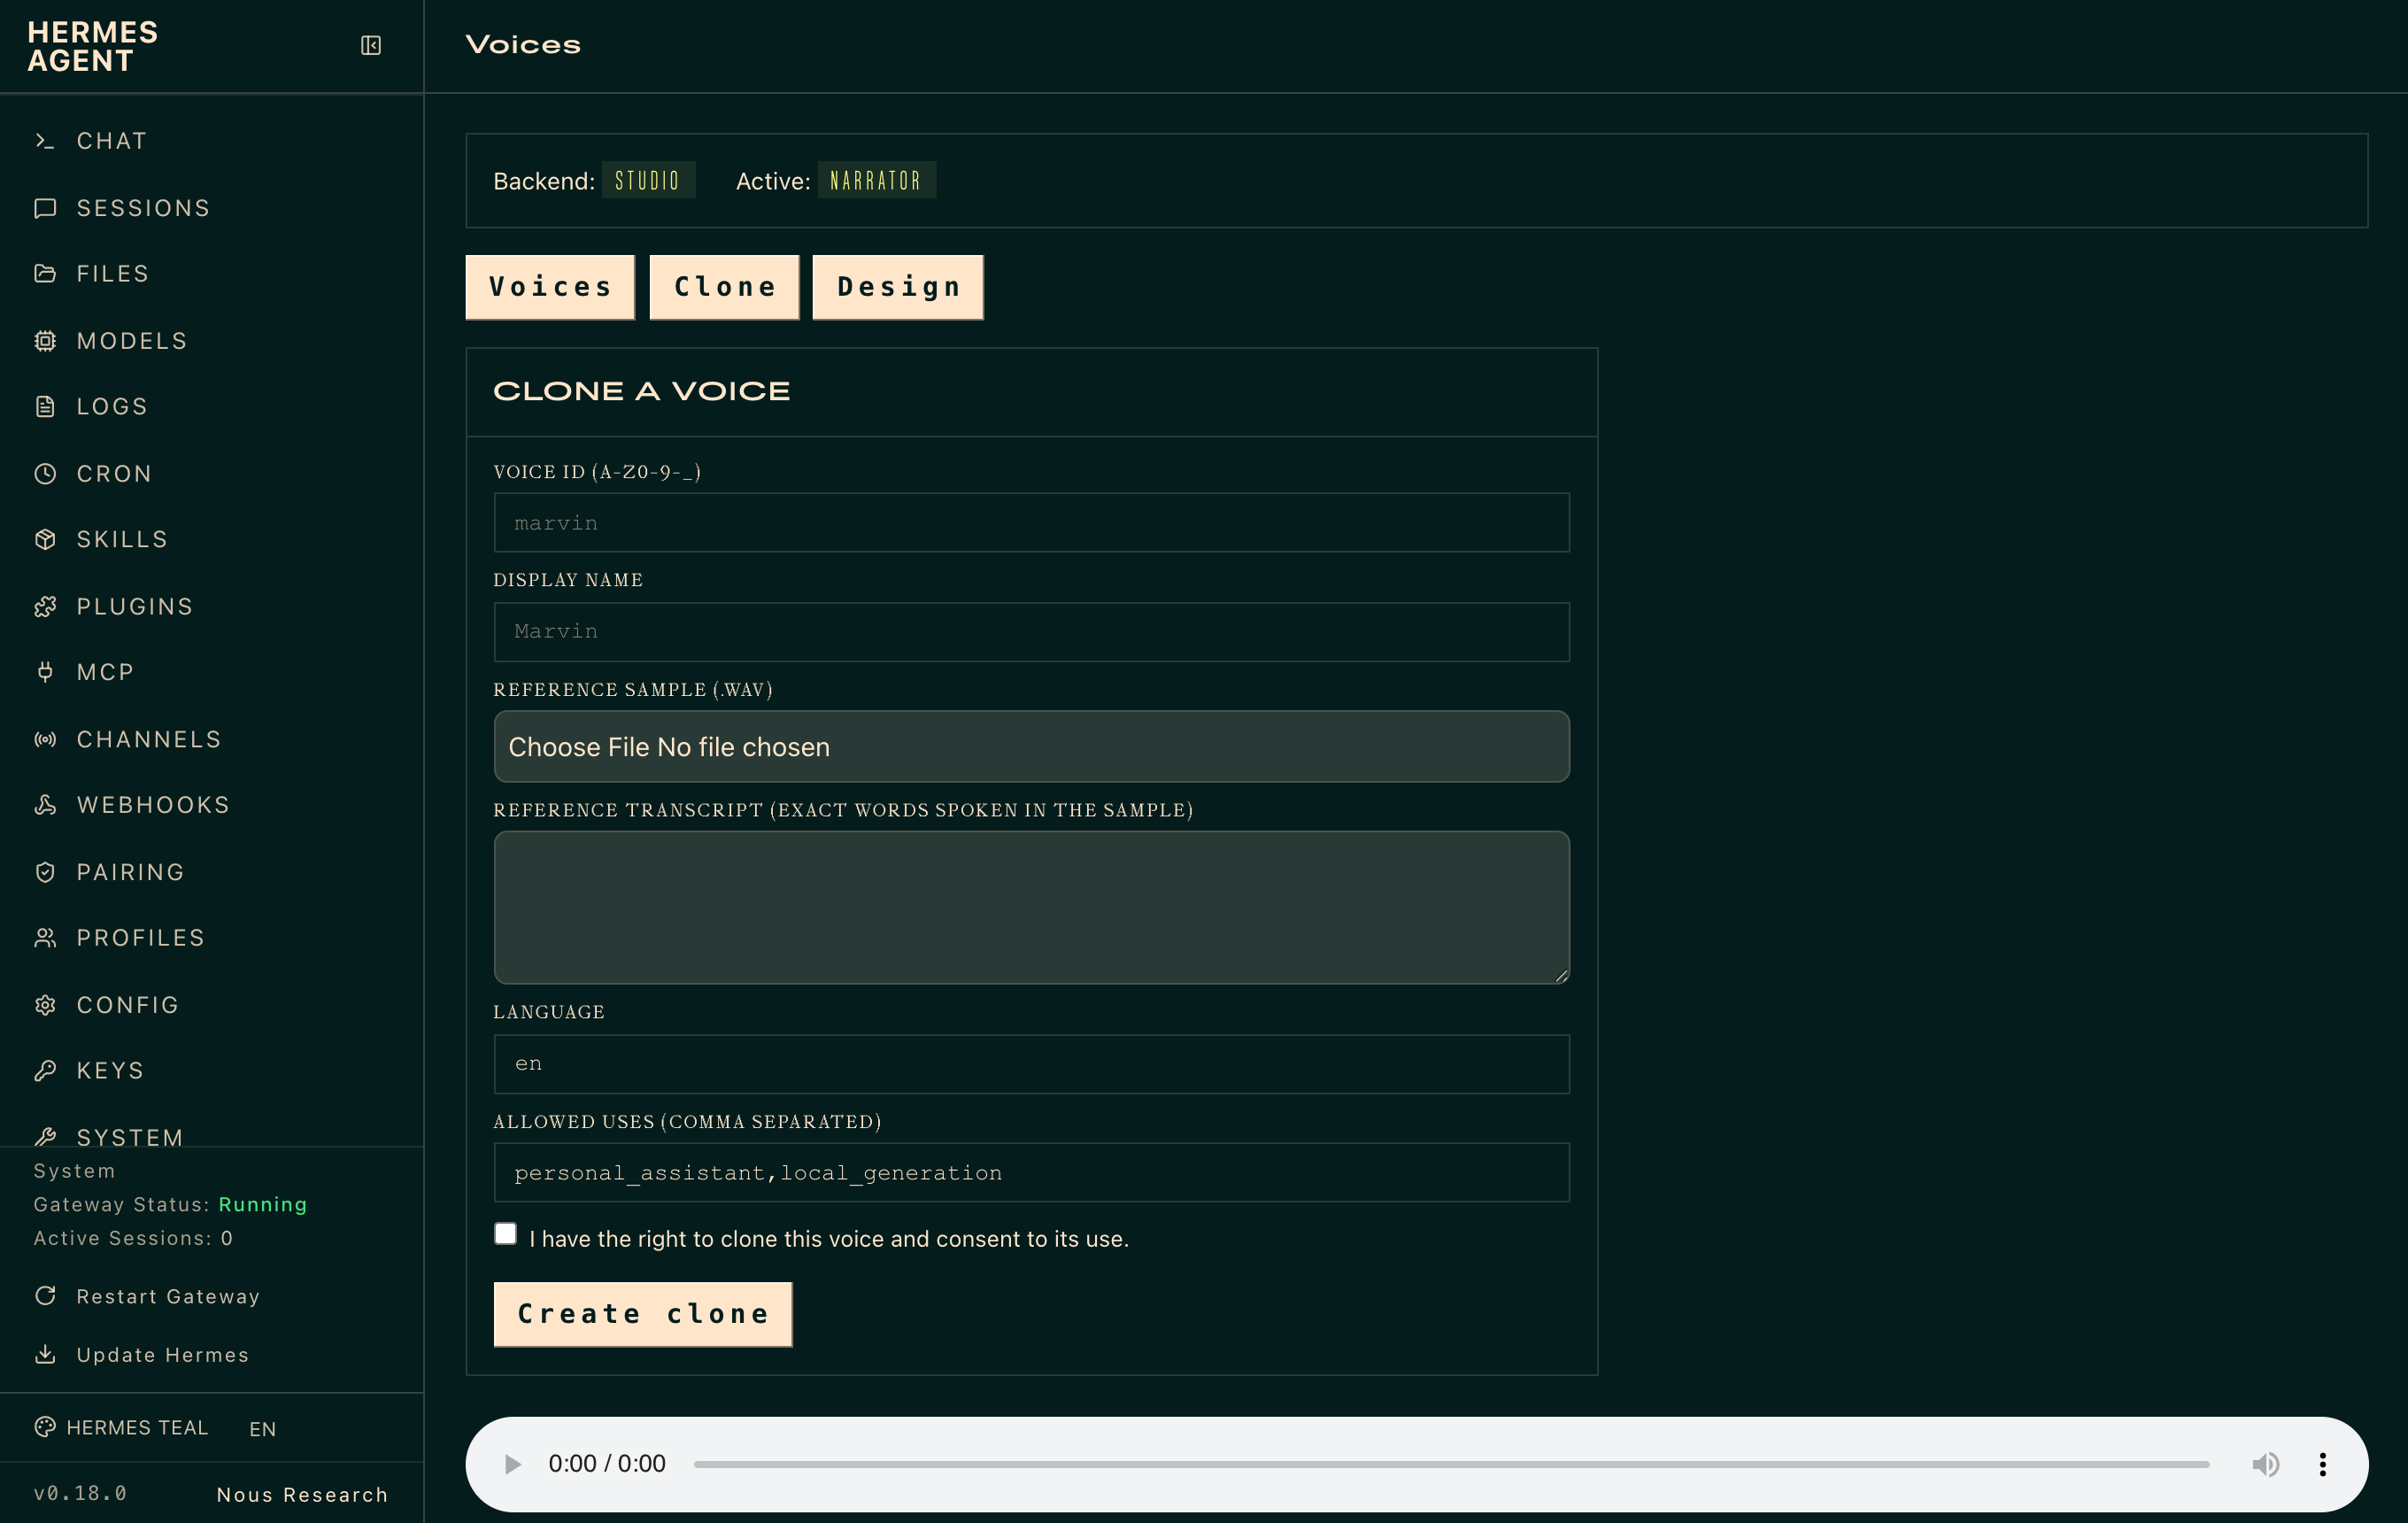
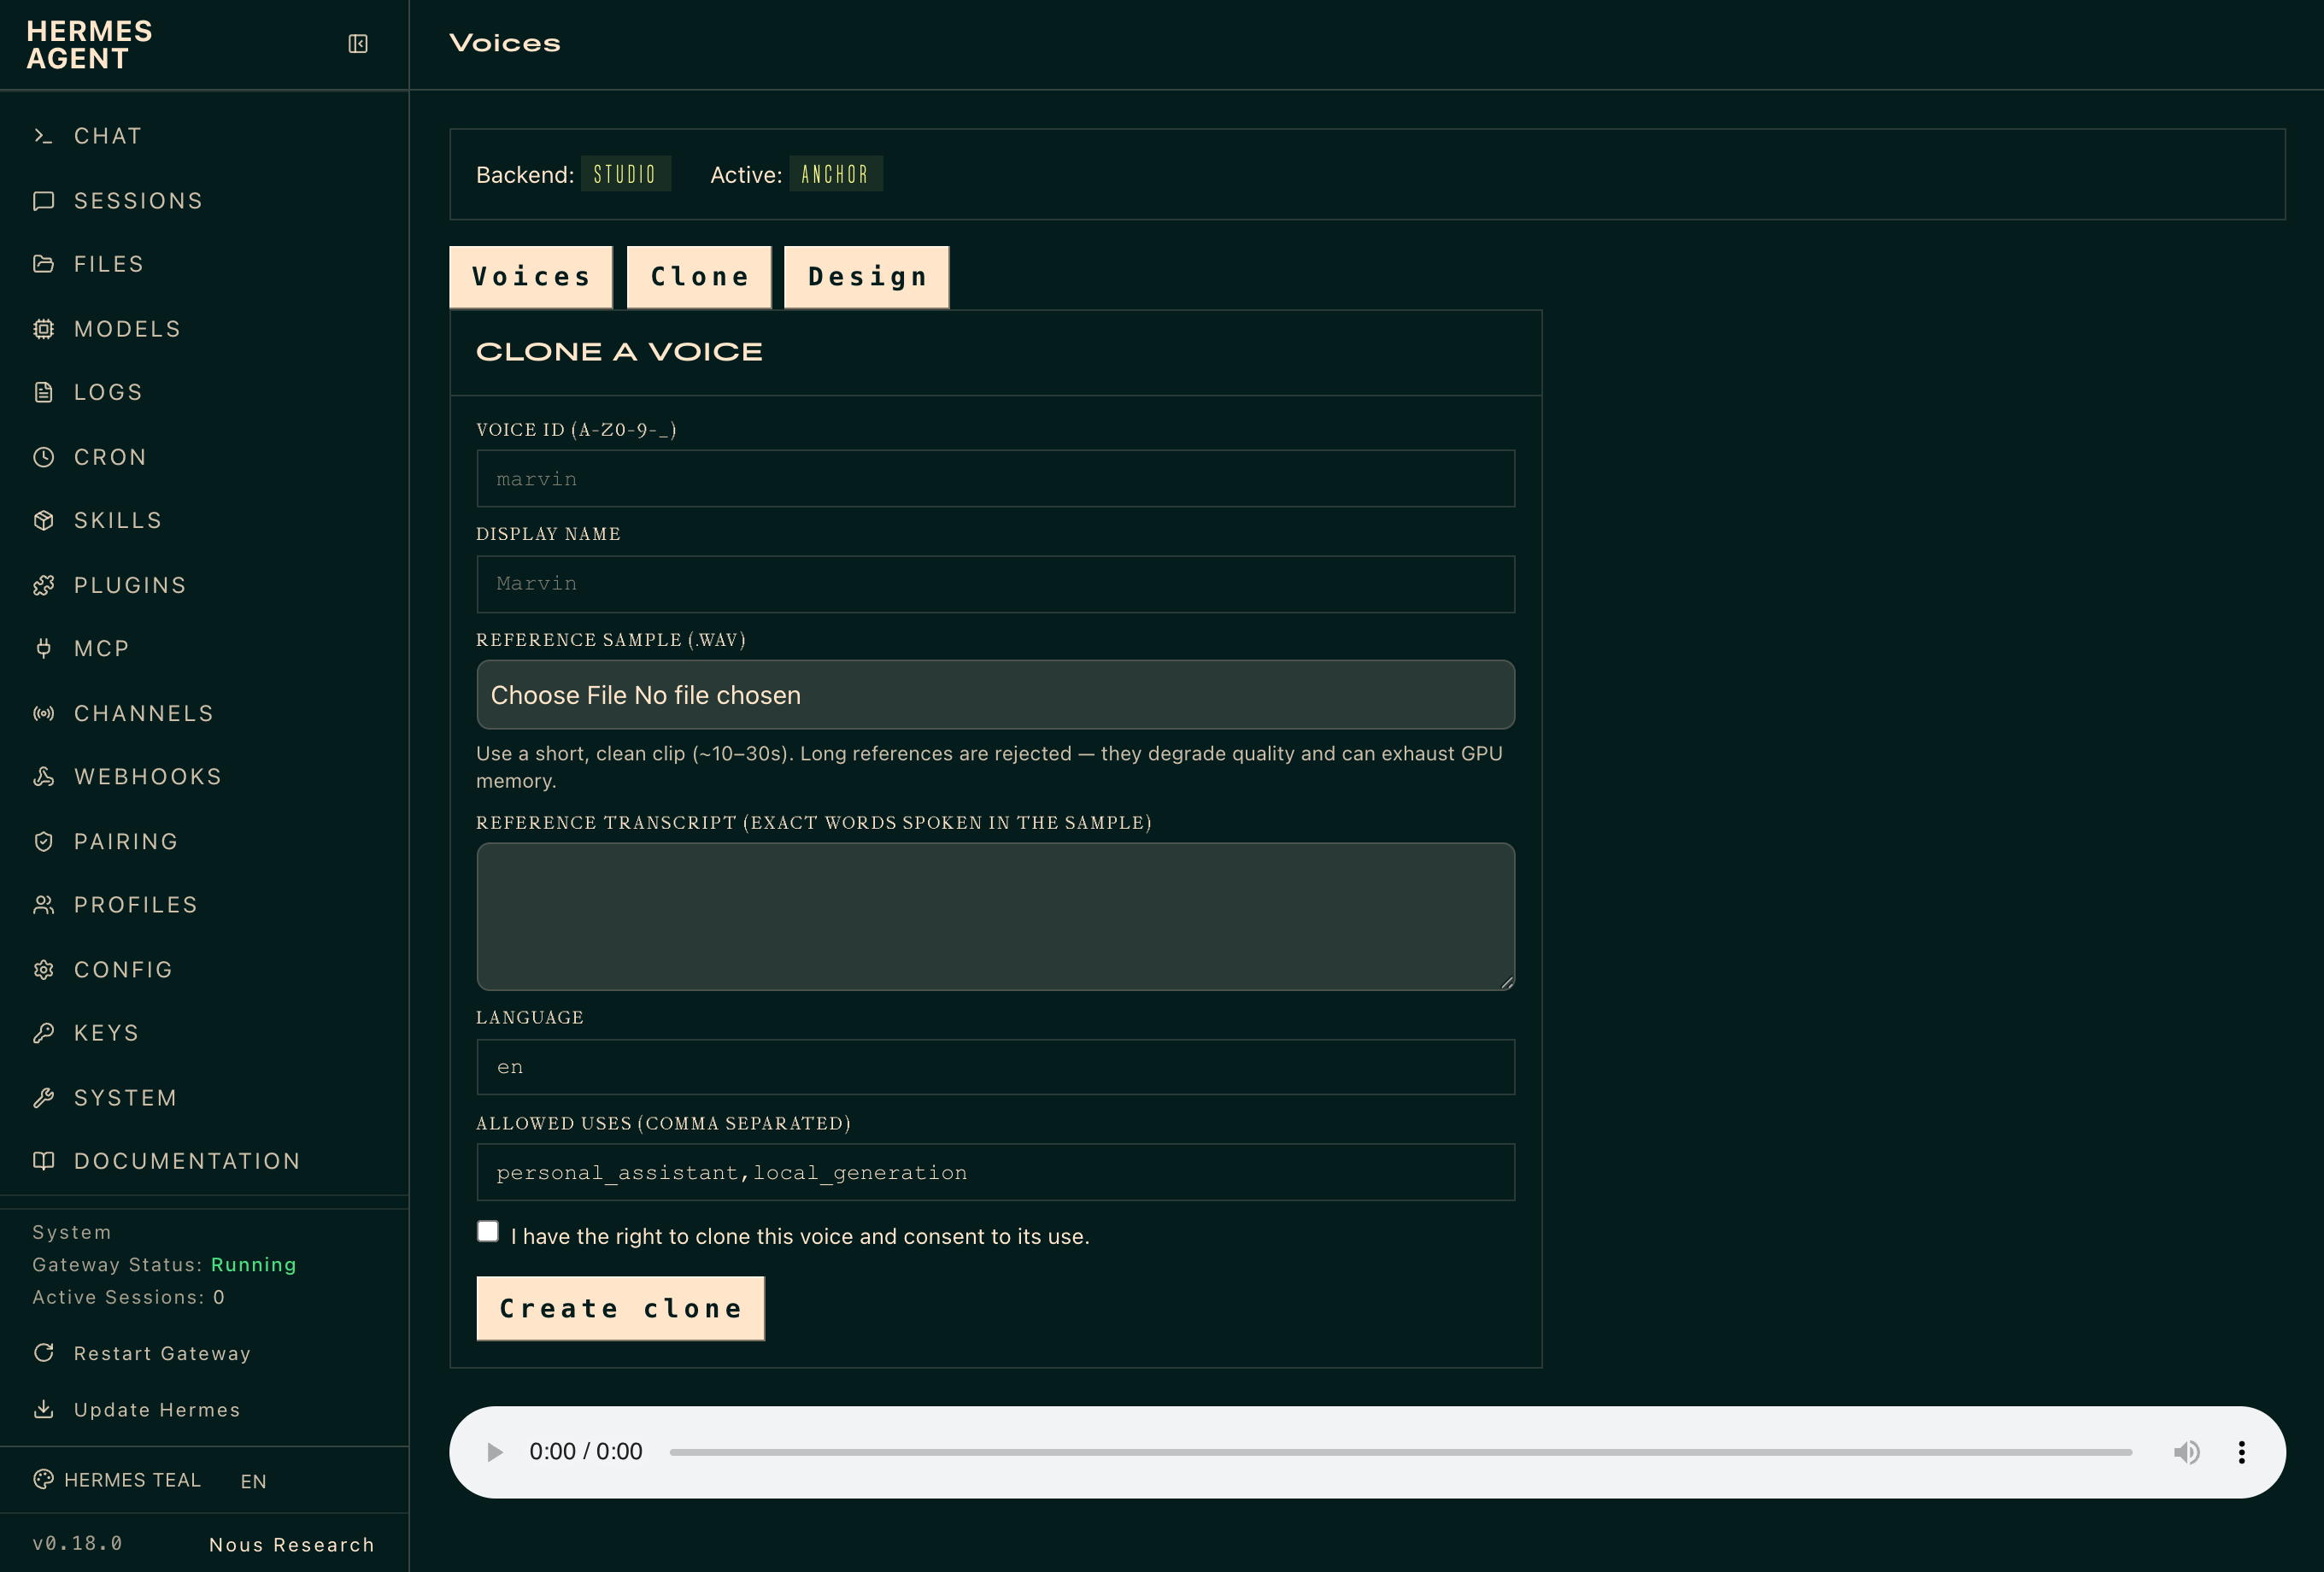
docs: installable via `hermes plugins install`; awesome README guide + screenshots
- Verified the normal Hermes install route: `hermes plugins install
  MahdiHedhli/hermes-omnivoice/omnivoice` (git subdir install → ~/.hermes/plugins/
  omnivoice, auto-enabled). Documented as the primary install path.
- Rewrote the README as a full guide: 2-step install, backend setup (local
  server / in-process / remote), usage with fresh curated screenshots
  (grid + design + clone + edit), backends table, model server, QC, security,
  and a troubleshooting table.
- Refreshed all dashboard screenshots (4 curated voices) + added edit-voice.png.
- Bumped plugin.yaml version to 0.3.0.

diff --git a/README.md b/README.md
@@ -1,9 +1,9 @@
 # 🎙️ OmniVoice for Hermes
 
-Self-hosted, ElevenLabs-tier voice for your [Hermes](https://github.com/NousResearch/hermes-agent)
-agent. Clone a voice from a short sample, design one from a text prompt, preview
-it, and pick the active voice — all from the Hermes dashboard. No per-token cost,
-no rate limits, and your reference audio never leaves your machine.
+**Self-hosted, ElevenLabs-tier voice for your [Hermes](https://github.com/NousResearch/hermes-agent) agent.**
+Clone a voice from a short sample, design one from a text prompt, preview it, and
+pick the active voice — all from the Hermes dashboard. No per-token cost, no rate
+limits, and your reference audio never leaves your machine.
 
 ![The OmniVoice Voices tab in the Hermes dashboard](docs/images/voices-tab.png)
 
@@ -11,94 +11,163 @@ Selecting `tts.provider: omnivoice` routes **every** `text_to_speech` tool call,
 voice-mode reply, Discord VC utterance, and messaging voice delivery through
 OmniVoice automatically — no per-surface wiring.
 
-> **The plugin is [`omnivoice/`](omnivoice/).** [`legacy/`](legacy/) is the
-> archived first-attempt bridge, kept for provenance.
+> **The plugin is [`omnivoice/`](omnivoice/)** and installs via the normal Hermes
+> route. [`legacy/`](legacy/) is the archived first-attempt bridge, kept for
+> provenance.
 
 ---
 
-## ✨ What you get
+## ✨ Highlights
 
-| | Feature |
+| | |
 |---|---|
-| 🎚️ | **Native TTS provider** — one config line routes all of Hermes' voice output through OmniVoice. |
-| 🎨 | **Voice authoring UI** — the gap Hermes doesn't fill: a dashboard tab to clone, design, preview, and select voices. |
-| 🧬 | **Clone voices** from a reference `.wav` + transcript. |
-| 🗣️ | **Design voices** from a plain-text description (`male, american accent, moderate pitch`). |
-| ✅ | **Consent gate + path hardening** on every clone (confirmed consent, WAV validation, symlink rejection, `0600` writes). |
-| 🔌 | **Three backends** — `local` (in-process SDK), `studio` (loopback HTTP), `service` (a shared voice node over the LAN/tailnet, with bearer auth + an SSH-loopback option). |
-| 🔒 | **Loopback-clean, non-loopback-gated** security, and works on hardened Hermes builds (the UI sends the dashboard session token). |
+| 🎚️ **One provider** | `tts.provider: omnivoice` routes all of Hermes' voice output through OmniVoice. |
+| 🎨 **Voice authoring UI** | A dashboard **Voices** tab to clone, design, preview, edit, and select voices — the gap Hermes doesn't fill. |
+| 🧬 **Clone** | From a short reference `.wav` + transcript. |
+| 🗣️ **Design** | From attributes (`male, american accent, moderate pitch`), with a **clickable guide + validation**. |
+| ✂️ **Edit** | Change a voice's name, language, attributes, or transcript after the fact. |
+| ✅ **Consent + hardening** | Confirmed consent, WAV validation, symlink rejection, `0600` writes, reference-length cap. |
+| 🔌 **Three backends** | `local` (in-process), `studio` (loopback server), `service` (LAN/tailnet node, bearer auth, ssh-loopback). |
+| 🖥️ **Model server included** | A small OpenAI-compatible `/v1/audio/speech` server — the same artifact from one host to a shared fleet. |
 
 ---
 
-## 📋 Requirements
+## 📦 Install
 
-- **Hermes Agent v0.18+** (developed and tested on v0.18.0).
-- A backend of your choice:
-  - **`local`** (runs the model on this machine): Python 3.11, and
-    `pip install omnivoice torch soundfile`. Uses CUDA / Apple-Silicon **MPS** /
-    CPU automatically. First run downloads the `k2-fsa/OmniVoice` model.
-  - **`studio` / `service`** (talk to an OmniVoice-Studio server over HTTP/SSH):
-    nothing beyond the Python stdlib on the Hermes side.
-- **`ffmpeg`** (optional) — only for non-WAV output formats. Without it, audio is
-  delivered as WAV and Hermes converts for voice bubbles downstream.
+### 1. Install the plugin (normal Hermes route)
+
+```bash
+hermes plugins install MahdiHedhli/hermes-omnivoice/omnivoice
+hermes gateway restart
+```
+
+That's it — the plugin is installed to `~/.hermes/plugins/omnivoice/` and enabled.
+Confirm with `hermes plugins list` (look for `omnivoice … enabled`) and `hermes
+tools` (an **OmniVoice** row under Text-to-Speech).
+
+### 2. Give it a model backend
+
+OmniVoice's model runtime is a real dependency — it runs either **in-process**
+(`local`) or as a **speech server** you run (`studio`/`service`). Pick one and add
+the matching block under `tts:` in `~/.hermes/config.yaml`
+(see [`omnivoice/config.example.yaml`](omnivoice/config.example.yaml)):
+
+**A. Local server (recommended)** — keeps Hermes light; one artifact scales to a fleet:
+
+```bash
+git clone https://github.com/MahdiHedhli/hermes-omnivoice
+cd hermes-omnivoice
+pip install -r server/requirements.txt              # omnivoice torch soundfile fastapi uvicorn
+python server/serve.py --host 127.0.0.1 --port 8880 # warms the model at startup
+```
+```yaml
+tts:
+  provider: omnivoice
+  omnivoice:
+    backend: studio
+    studio: { url: http://127.0.0.1:8880 }
+```
+
+**B. In-process** — no separate server, but Hermes' own env needs the model deps:
+
+```bash
+pip install omnivoice torch soundfile   # into Hermes' Python environment
+```
+```yaml
+tts: { provider: omnivoice, omnivoice: { backend: local, local: { device: auto } } }
+```
+
+**C. Remote node (Mode B)** — one capable machine serves many thin agents:
+
+```yaml
+tts:
+  provider: omnivoice
+  omnivoice:
+    backend: service
+    service:
+      url: http://mac-studio.local:8880   # or a tailnet IP
+      auth_token_env: HERMES_OMNIVOICE_SERVICE_TOKEN
+      transport: http                     # or ssh-loopback
+```
+
+> **Shortcut:** from a repo clone, `python setup-omnivoice.py` detects your
+> environment and writes the right block for you (use-detected / install-local /
+> remote).
+
+Then set `tts.provider: omnivoice` and restart the gateway. Requires **Hermes
+Agent v0.18+** (developed on v0.18.0).
 
 ---
 
-## 🚀 Install
+## 🎨 Using it
 
-**1. Copy the plugin into your Hermes plugins directory.** The top-level location
-is required — it's how the dashboard discovers the Voices tab.
+Run `hermes dashboard` and open the **Voices** tab.
 
-```bash
-cp -r omnivoice ~/.hermes/plugins/omnivoice
-```
+### Design a voice from attributes
 
-**2. Enable it.**
+Pick *Design*, give it an id and name, and describe the voice. The form shows a
+**clickable guide** of the supported attributes and **validates** before saving —
+so a voice can't be created with a free word (like `energetic`) that would fail
+at synthesis.
 
-```bash
-hermes plugins enable omnivoice
-```
+![Design a voice, with the clickable attribute guide](docs/images/design-voice.png)
 
-**3. Wire a model backend (setup wizard).** OmniVoice's model runtime is a real
-dependency — it runs either **in-process** (`local`) or as a **speech server**
-you run (`studio`/`service`). The wizard detects your environment and writes only
-the `tts.omnivoice` block of your config:
+> **Attributes:** gender (`male`/`female`), age (`child`…`elderly`), pitch
+> (`very low`…`very high`), accent (`american`/`british`/`indian`/…), and
+> `whisper`. Comma-separated. Click a chip to add it.
 
-```bash
-python setup-omnivoice.py
-```
+### Clone a voice from a sample
 
-It offers three paths — **use** a detected local setup, **install** a local
-server, or point at a **remote** one. (You can also configure by hand from
-[`omnivoice/config.example.yaml`](omnivoice/config.example.yaml).) The
-recommended setup is a **speech server** — see
-[Run the model server](#️-run-the-model-server) below.
+Pick *Clone*, upload a **short, clean `.wav` (~10–30 s)**, paste the exact
+transcript, confirm consent, and create. Reference audio and transcripts never
+leave your machine.
 
-**4. Restart Hermes.** `omnivoice` now appears in the `hermes tools` picker.
-Set `tts.provider: omnivoice` when you want it to be the active voice.
+![Clone a voice from a reference sample](docs/images/clone-voice.png)
 
-> **Quick check:** run `hermes tools` and confirm **OmniVoice** shows under
-> Text-to-Speech. If the plugin failed to load, check `~/.hermes/logs/errors.log`.
+### Preview, edit, and select
+
+Every card has **Preview** (hear a sample), **Edit** (change name / attributes /
+transcript), and **Set active** (make it the voice your agent speaks with). The
+active voice is used by every voice surface in Hermes.
+
+![Editing a voice with the attribute guide](docs/images/edit-voice.png)
+
+### From the CLI / filesystem
+
+Voices live at `~/.hermes/voices/omnivoice/<id>/voice.yaml`; the active one is in
+`~/.hermes/voices/omnivoice/.active`. The `hermes tools` picker and the dashboard
+read and write the **same** registry, so they always agree.
 
 ---
 
-## 🖥️ Run the model server
+## 🔌 Backends & deployment
 
-OmniVoice's SDK ships a demo + inference CLIs but **no HTTP server**, so the
-plugin includes a small one — [`server/serve.py`](server/serve.py): an
-OpenAI-compatible `/v1/audio/speech` endpoint that resolves voice ids against
-your registry and synthesizes. It's the **same artifact** for a single host and a
-shared node, and it warms the model at startup so the first request is reliable:
+| Backend | Runs where | Use it for |
+|---|---|---|
+| `local` | In-process on the Hermes host | A single workstation with a GPU or Apple Silicon. |
+| `studio` | A loopback speech server (`/v1/audio/speech`) | A model server on the same host. |
+| `service` | A shared node over LAN/tailnet (bearer auth; `http` or `ssh-loopback`) | One capable node serving a fleet of thin agents. |
+
+### The model server
+
+OmniVoice's SDK ships a demo + inference CLIs but **no HTTP server**, so the repo
+includes one — [`server/serve.py`](server/serve.py). It resolves voice ids
+against your registry, **warms the model at startup**, defaults to `float16`, and
+**frees GPU/MPS memory after every synth** (so long sessions don't OOM). Serve a
+fleet by binding a LAN address + a token:
 
 ```bash
-pip install -r server/requirements.txt        # omnivoice torch soundfile fastapi uvicorn
-# single host (loopback → backend: studio):
-python server/serve.py --host 127.0.0.1 --port 8880
-# shared node for a fleet of thin agents (→ backend: service):
-python server/serve.py --host 0.0.0.0 --port 8880 --require-auth   # + HERMES_OMNIVOICE_SERVICE_TOKEN
+export HERMES_OMNIVOICE_SERVICE_TOKEN=$(openssl rand -hex 24)
+python server/serve.py --host 0.0.0.0 --port 8880 --require-auth
 ```
 
-Confirm a voice produces **intelligible speech** (a valid WAV isn't enough):
+See [`server/README.md`](server/README.md) for all options.
+
+---
+
+## 🧪 Verify it actually speaks
+
+A valid WAV is not the same as intelligible speech. Check any voice with ASR:
 
 ```bash
 python tools/qc.py --voice <id> --server http://127.0.0.1:8880   # synth → transcribe → match score
@@ -106,101 +175,47 @@ python tools/qc.py --voice <id> --server http://127.0.0.1:8880   # synth → tra
 
 ---
 
-## 🎨 Create and use voices
-
-### From the dashboard (recommended)
-
-Run `hermes dashboard` and open the **Voices** tab (in the sidebar).
-
-**Design a voice** from a text description — pick the *Design* tab, give it an id
-and name, and describe the voice using OmniVoice's attributes:
-
-<img src="docs/images/design-voice.png" width="70%" alt="Design a voice form">
-
-> **Instruction vocabulary** — OmniVoice `instruct` takes comma-separated
-> attributes, not free prose. Mix and match: **gender** (`male`, `female`),
-> **age** (`child`, `teenager`, `young adult`, `middle-aged`, `elderly`),
-> **pitch** (`very low` → `very high`), **accent** (`american`, `british`,
-> `indian`, `australian`, …), and **style** (`whisper`). Example:
-> `female, british accent, low pitch`.
-
-**Clone a voice** from a reference sample — pick the *Clone* tab, upload a
-**short, clean `.wav` (~10–30 s)**, paste the exact transcript of what's said in
-it, confirm consent, and create. (Very long references are rejected — they
-degrade quality and can exhaust GPU memory; override with
-`HERMES_OMNIVOICE_MAX_REF_SECONDS`.)
-
-<img src="docs/images/clone-voice.png" width="70%" alt="Clone a voice form">
-
-**Preview** any voice card to hear a sample, **Edit** to change its name,
-language, and attributes (design) or transcript (clone), and **Set active** to
-make it the voice your agent speaks with. The active voice is used by every
-voice surface in Hermes. Clone reference audio and transcripts never leave your
-machine.
-
-> The Design/Edit forms show a **clickable guide** of the supported attributes
-> and **validate** before saving, so a voice can't be created with an unsupported
-> word (like `energetic`) that would fail at synthesis.
-
-> Cloning from a local reference sample is a **`local`-backend** capability. The
-> `studio`/`service` backends select a voice the server already holds, by id.
-
-### From the CLI / filesystem
-
-Voices live at `~/.hermes/voices/omnivoice/<id>/voice.yaml`, and the active voice
-is recorded in `~/.hermes/voices/omnivoice/.active`. The `hermes tools` picker and
-the dashboard read and write the **same** registry, so they always agree.
-
----
-
-## 🔌 Backends & deployment modes
-
-| Backend | Runs where | Use it for |
-|---|---|---|
-| **`local`** | In-process on the Hermes host | A single workstation with a GPU or Apple Silicon. |
-| **`studio`** | OmniVoice-Studio over **loopback** HTTP (`/v1/audio/speech`) | A model server on the same host. |
-| **`service`** | A shared voice node over the **LAN/tailnet** (bearer auth) | One capable node (e.g. a Mac Studio) serving a fleet of thin agents. Supports `transport: http` or `transport: ssh-loopback`. |
-
-Full backend config, the wire contract, streaming/fallback notes, and the
-security model are in [`omnivoice/README.md`](omnivoice/README.md).
-
----
-
 ## 🔒 Security
 
-Loopback is clean; non-loopback requires deliberate gating.
+Loopback is clean; non-loopback needs deliberate gating.
 
-- The dashboard binds `127.0.0.1` by default. Every mutating/compute plugin route
-  (clone, design, preview, set-active, delete) refuses non-loopback callers
-  unless you set `HERMES_OMNIVOICE_ALLOW_REMOTE_CLONE=1` on a trusted network.
+- The dashboard binds `127.0.0.1`. Every mutating/compute plugin route (clone,
+  design, edit, preview, set-active, delete) refuses non-loopback callers unless
+  `HERMES_OMNIVOICE_ALLOW_REMOTE_CLONE=1`.
 - The `service` backend requires a bearer token on any non-loopback URL — prefer
   a VPN/tailnet.
 - Clone ingestion enforces consent (confirmed status, non-empty source, ≥1
-  allowed use), validates the reference is a real WAV, rejects symlinks, and
-  writes registry files `0600`.
+  allowed use), validates a real WAV, rejects symlinks, caps reference length,
+  and writes registry files `0600`.
+
+---
+
+## 🩺 Troubleshooting
+
+| Symptom | Fix |
+|---|---|
+| **"Unauthorized"** in the Voices tab | Old dashboard build; update Hermes (the UI sends the session token, which hardened builds require). |
+| Preview shows **"unsupported instruct attribute"** | Your design voice uses a word outside the vocabulary (e.g. `energetic`). **Edit** it and use only the listed attributes. |
+| Preview shows **"…out of memory"** | A too-long clone reference. Re-clone with a **~10–30 s** clip (long refs are rejected; override with `HERMES_OMNIVOICE_MAX_REF_SECONDS`). |
+| Preview shows **"SDK not installed"** / **server unreachable** | No model backend running. Start `server/serve.py` (studio/service) or `pip install omnivoice torch soundfile` (local). |
+| Static / garbage audio | Almost always an MPS OOM from a long reference — restart the server and use short refs. Confirm with `tools/qc.py`. |
+| Edited a voice / changed backend but the dashboard didn't notice | Backend route changes mount at startup — restart `hermes dashboard`. |
 
 ---
 
 ## ✅ Status
 
-- **43 offline tests pass** (`cd omnivoice && pytest -q`) — no SDK/torch/Hermes
-  needed for the suite.
-- **Live-tested on Hermes v0.18.0**: provider registers through the real loader
-  and shows in `hermes tools`; the dashboard Voices tab + backend routes are
-  discovered; the tab renders and Preview plays in a real browser (the
-  screenshots above are from that run).
-- **Real `local` synthesis verified** against `omnivoice 0.1.5` + torch on Apple
-  Silicon (MPS): a design voice → 24 kHz WAV in ~9 s.
-- `stream()` (time-to-first-audio) and cross-provider fallback are deferred by
-  design; the live networked `service` path is unit-tested but not yet run
-  against a production node.
+- **53 offline tests pass** (`cd omnivoice && pytest -q`).
+- **Live-tested on Hermes v0.18.0**: installs via `hermes plugins install`, shows
+  in `hermes tools`, the Voices tab renders and previews play; real synthesis
+  ASR-verified across cpu/mps; 10 back-to-back synths, 0 OOM after the memory fix.
+- Deferred by design: streaming `stream()` and cross-provider fallback.
 
 ---
 
 ## 📚 More
 
-- [`omnivoice/README.md`](omnivoice/README.md) — full plugin reference (backends,
-  wire contract, security, verified SDK contracts).
-- [`HANDOFF.md`](HANDOFF.md) — what changed, what was verified live, and why.
-- [`legacy/`](legacy/) — the archived first-attempt bridge and the components
-  worth harvesting later.
+- [`omnivoice/README.md`](omnivoice/README.md) — plugin reference (backends, wire contract, verified SDK contracts).
+- [`server/README.md`](server/README.md) — the model server.
+- [`setup-omnivoice.py`](setup-omnivoice.py) — the setup wizard · [`tools/qc.py`](tools/qc.py) — ASR quality check.
+- [`HANDOFF.md`](HANDOFF.md) — how this was built and verified · [`legacy/`](legacy/) — the archived first attempt.